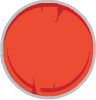
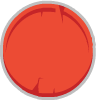
Rotate button image. Remove unnecessary timeout clearing in camera spring.

Changed region(s): [[0.0, 0.0, 1.0, 1.0], [0.5625, 0.21, 0.5938, 0.24]]

diff --git a/game/js/game.js b/game/js/game.js
@@ -280,7 +280,7 @@ function Game(context, resources, PPM) {
             // Draw background stuff
             objects = backgroundBodies.query(camera.getLeft() - 10, camera.getTop() - 10, camera.getWidth() + 20, camera.getHeight() + 20);
             objects.forEach(function(object) {
-                object.drawProjected(context, camera.getX(), camera.getY(), 600/50);
+                object.drawProjected(context, camera.getLeft() + camera.getWidth() / 2, camera.getTop() + camera.getHeight() / 2, 600/50);
                 //obstacle.geometry.effect.debugDraw(context);
             });
             
@@ -379,13 +379,16 @@ function Game(context, resources, PPM) {
             random,
             body;
 
-        var leftWall = new Body({solid: new Poly([0, 0, 1, 0, 1, height + 20, 0, height + 20])}, -0.5, offsetY + height / 2, 0, Number.POSITIVE_INFINITY),
-            rightWall = new Body({solid: new Poly([0, 0, 1, 0, 1, height + 20, 0, height + 20])}, cameraWidth + 0.5, offsetY + height / 2, 0, Number.POSITIVE_INFINITY);
+        var leftWall = new Body({solid: new Poly([0, 0, 1, 0, 1, height + 20, 0, height + 20], null)}, -0.5, offsetY + height / 2, 0, Number.POSITIVE_INFINITY),
+            rightWall = new Body({solid: new Poly([0, 0, 1, 0, 1, height + 20, 0, height + 20], null)}, cameraWidth + 0.5, offsetY + height / 2, 0, Number.POSITIVE_INFINITY);
 
         leftWall.restitution = 0;
         leftWall.friction = 0.1;
         rightWall.restitution = 0;
         rightWall.friction = 0.1;
+        
+        
+        
         obstacleArray.push(leftWall);
         obstacleArray.push(rightWall);
 

diff --git a/game/js/camera.js b/game/js/camera.js
@@ -5,7 +5,7 @@ function Camera(centerX, centerY, width, height, perspective) {
         offsetY = 0;
         
     // Spring related
-    this.springX = new Spring(150, 40, 5);
+    this.springX = new Spring(100, 40, 7);
     this.springY = new Spring(30, 20, 3);
     
     this.setCenterX = function(newCenterX) {
@@ -156,7 +156,7 @@ function Spring(stiffness, mass, friction) {
 Spring.prototype.start = function(acceleration, massPos, speed, anchorPos) {
     this.massPos = (typeof massPos !== 'undefined') ? massPos : this.massPos;
     this.speed = (typeof speed !== 'undefined') ? speed : this.speed;
-    this.speed += acceleration*10 || 0;
+    this.speed += acceleration * 10 || 0;
     this.anchorPos = (typeof anchorPos !== 'undefined') ? anchorPos : this.anchorPos;
     this.step();
 };
@@ -171,8 +171,8 @@ Spring.prototype.step = function() {
     this.springForce = -this.stiffness * this.distance;
     this.totalForce = this.springForce + this.dampingForce;
     this.acceleration = this.totalForce / this.mass;
-    this.speed += this.acceleration * dt/15;
-    this.massPos += this.speed/100;
+    this.speed += this.acceleration * dt / 15;
+    this.massPos += this.speed / 100;
     if (Math.round(this.massPos) === this.anchorPos && Math.abs(this.speed) < 0.001) {
         this.removeStepTrigger();
     }
@@ -182,7 +182,6 @@ Spring.prototype.step = function() {
 // This sets the timer for the next step
 Spring.prototype.setStepTrigger = function() {
     var spring = this;
-    clearTimeout(this.stepTrigger);
     this.stepTrigger = setTimeout(function() {spring.step();}, this.interval);
 };
 

diff --git a/game/js/geometry.js b/game/js/geometry.js
@@ -319,7 +319,7 @@ Poly.prototype.debugDraw = function(context) {
 };
 
 Poly.prototype.draw = function(context) {
-    if (this.textureDescription !== void 0) {
+    if (this.textureDescription && this.textureDescription.image) {
         // Save state
         context.save();
 
@@ -338,7 +338,7 @@ Poly.prototype.draw = function(context) {
 
         // Restore state
         context.restore();
-    } else {
+    } else if (this.textureDescription !== null) {
         this.debugDraw(context);
     }
 };
